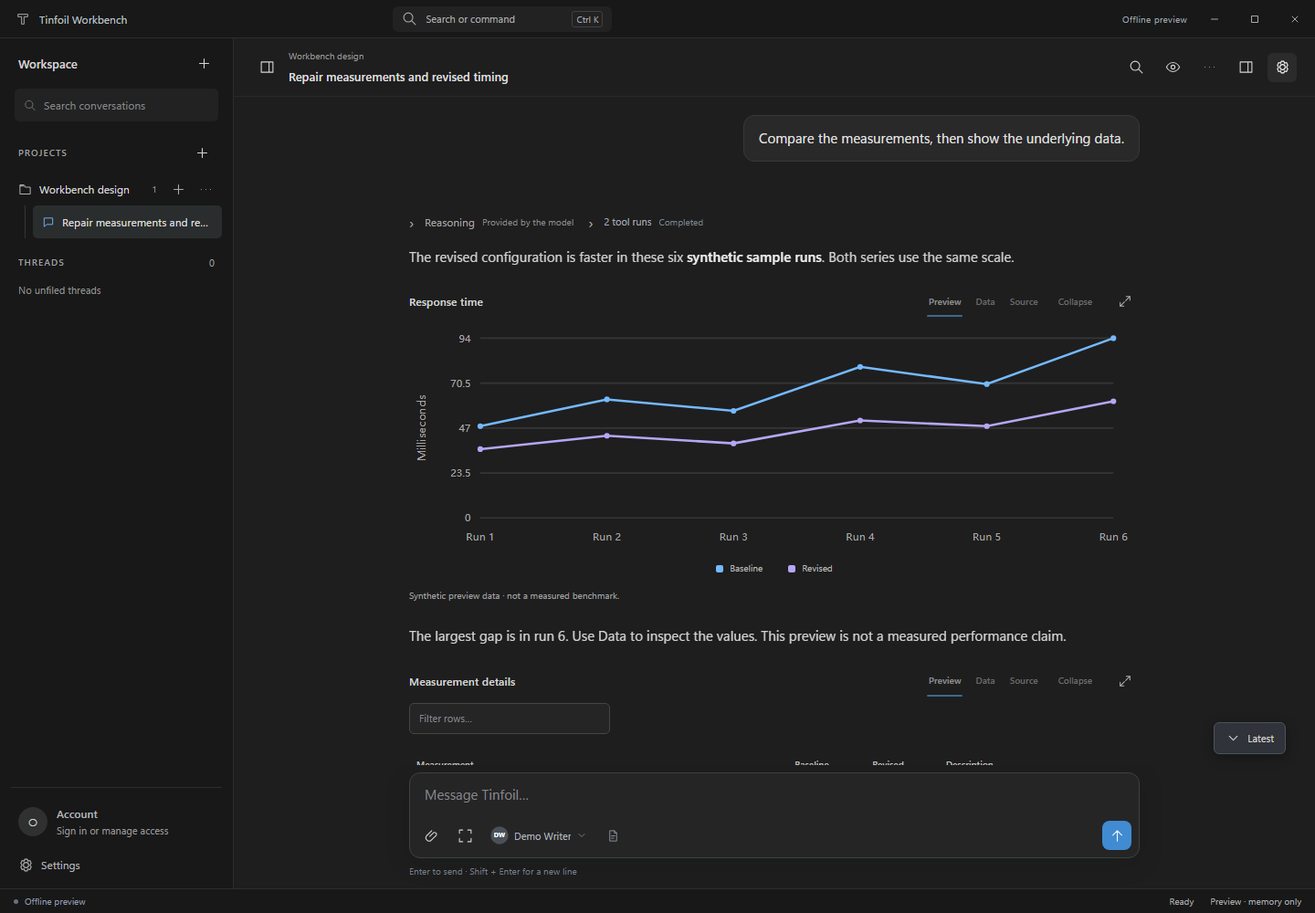
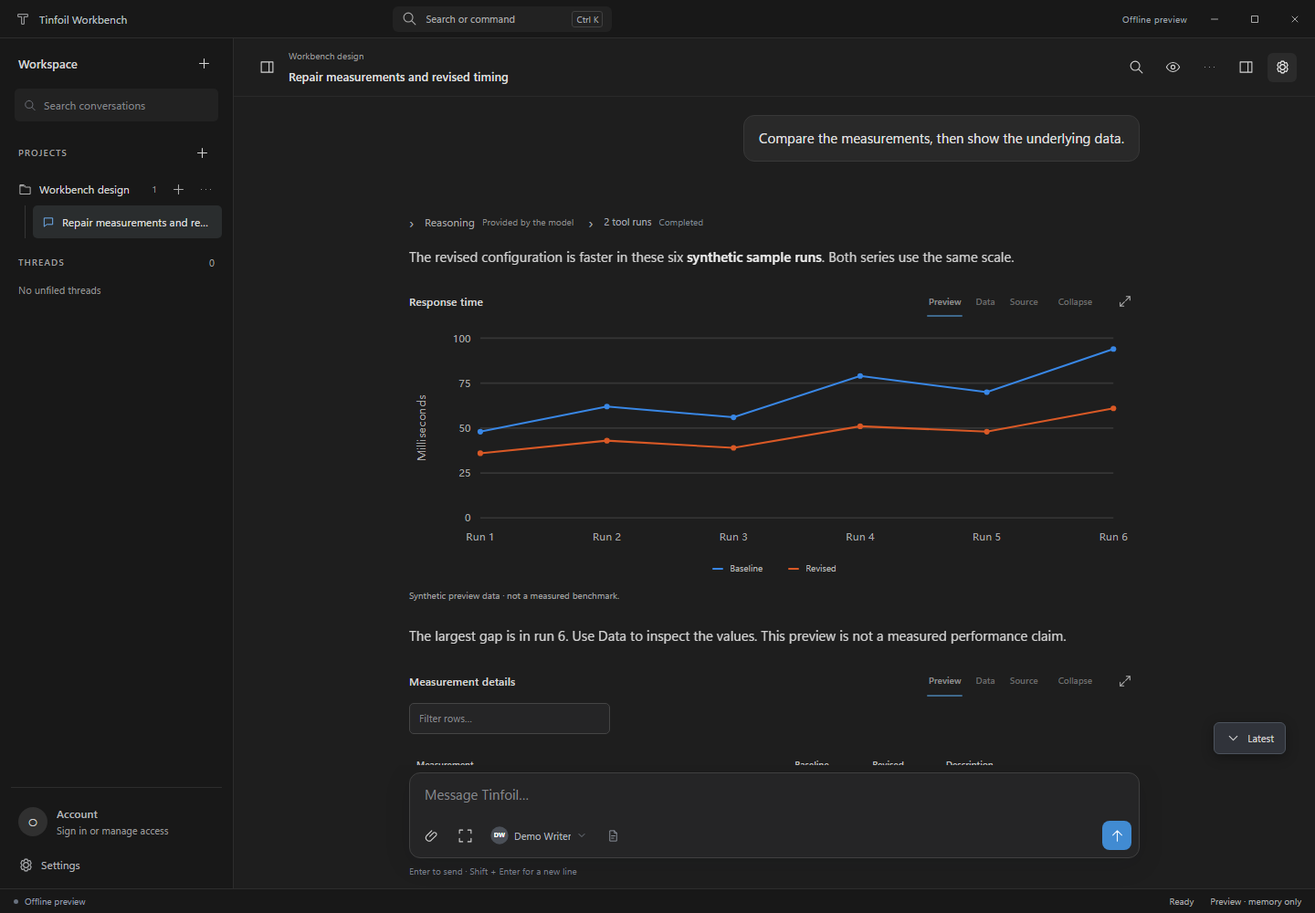
Record the 0.16.0 validation and release artifacts
- docs/VALIDATION.md is now the 0.16.0 record: the guide to the tools
  (what it contains, its size and why it stays fixed, its checks, and
  that real model behaviour was not measured), the chart forms, readout
  and palette with the validator results, the Windows gates including a
  live verification of both enclaves through the packaged app and
  through the installed app after a silent upgrade over 0.15.1, the
  twelve browser suites, the device results, the in-place upgrade from
  the signed 0.15.1 APK, what did not run, and the artifact hashes. The
  0.15.1 record and checklist move to docs/history/v0.15.1.
- HANDOFF states what ran for 0.16.0 and asks for a check of real model
  behaviour with the guide; README's verification summary names 0.16.0.
- Screenshots and check records are regenerated from the build commit,
  including the chart suite's first screenshots and record.

The packaged files are unchanged from e15ae14.

diff --git a/docs/VALIDATION.md b/docs/VALIDATION.md
@@ -1,67 +1,85 @@
-# Tinfoil Workbench 0.15.1 — validation record
+# Tinfoil Workbench 0.16.0 — validation record
 
-Recorded 29 September 2026 for the 0.15.1 release. It keeps a saved Tinfoil Chat sign-in on Windows when Tinfoil cannot be reached as Workbench starts. The record lists what ran, what failed on the way, and what did not run. The previous record is in [history/v0.15.0](history/v0.15.0/VALIDATION.md).
+Recorded 29 September 2026 for the 0.16.0 release. It tells the model when to use its visual tools and Python, through a guide at the start of the system message, and adds pie, stacked and unit-aware charts with a hover and keyboard readout. The record lists what ran, what failed on the way, and what did not run. The previous record is in [history/v0.15.1](history/v0.15.1/VALIDATION.md).
 
 ## Environment
 
 - **Windows build machine:** Windows 11 Pro 10.0.26200 (x64).
-- **Toolchains, emulators and dependencies:** unchanged from 0.15.0. The lockfile differs only in its version field. A clean `npm run bootstrap` followed by `npm run doctor` passed all 28 entries. `npm audit --omit=dev` reports no known vulnerabilities; the full audit reports the same three moderate advisories in the dev-only `@capacitor/cli` → `xcode` → `uuid` chain as 0.15.0.
+- **Toolchains, emulators and dependencies:** unchanged from 0.15.1. The lockfile differs only in its version field. A clean `npm run bootstrap` followed by `npm run doctor` passed all 28 entries. `npm audit --omit=dev` reports no known vulnerabilities; the full audit reports the same three moderate advisories in the dev-only `@capacitor/cli` → `xcode` → `uuid` chain.
 
-## The defect
+## The guide to the tools
 
-After an unexpected shutdown, Workbench 0.15.0 was started while the network was still coming up. Restoring the saved sign-in needs Tinfoil's page within 30 seconds; when it is not reached, `restore()` keeps the saved sign-in as pending and shows the account as expired, as designed. Two gaps then led to a new sign-in:
+Before this release the visual tools and Python reached the model only as tool schemas. The system message carried the user's instructions and project context, and nothing about when a tool helps. `src/core/prompt.ts` now puts a fixed `<workbench_tools>` section at the start of the system message, with a `<visuals>` part and a `<python>` part for the tools actually offered on that request. It follows the XML-section layout of Tinfoil Chat's own prompt, whose client and public configuration (`/api/config/system-prompt`, with its GenUI guidance) were read for reference, not copied. The user's instructions follow the guide and take precedence; cloud project context follows them, now escaped as Tinfoil Chat escapes it.
 
-- Nothing retried the saved sign-in except the next Chat request, so the Account view kept offering *Reconnect Tinfoil Chat* after the network was back.
-- *Reconnect* runs the sign-in command, which signs out an expired account first. Signing out deletes `account-session.bin` and ends the Clerk session, so a session that was still valid was replaced by a new sign-in.
+- **Size:** 1,313 characters (about 330 tokens) with the visual tools, 1,616 characters (about 400 tokens) with Python as well, 390 with Python alone. It depends only on the offered tool set and contains no date, time or user data, so the start of every request stays byte-identical and the provider's prefix cache covers it.
+- **Checks:** `tests/prompt.test.mjs` (4 tests): the guide names only offered tools and names every visual tool a model chooses between; it is fixed and under 2,200 characters; it is prepended to an existing system message without mutating it; project names, instructions and documents are escaped, so `</project_context>` inside a document stays text. A service test (`tests/visual-service.test.mjs`) checks the guide on both rounds of a tool loop, a single system message, and no guide when visual tools are off or the model cannot call tools. Three service tests now index request messages one place later.
+- **Not measured:** whether and how often real models choose a visual now. The checks use scripted provider responses.
 
-Which restore outcome occurred on that launch was not recorded: Workbench keeps no log of it. The network was still changing within the 30 seconds after the launch, and the other outcome, a session that Tinfoil ended, deletes the saved sign-in with a different message. Both writes of the saved files are atomic (a flushed temporary file, then a rename), and the key that protects them was unchanged.
+## Charts
 
-The chat key for cloud sync is kept in the workspace and is unaffected by any of this: only *Remove chat key* removes it. Signing in again, or a deleted saved sign-in, does not.
+Chart forms and reading aids follow current chat visualization tools (OpenAI's interactive bar, line, pie and scatter charts; Anthropic's inline visuals, which a model creates unasked when they help) and a data-visualization method for marks, color and interaction:
 
-## Checks
-
-- `tests/account-remember.test.mjs` gains three tests, 16 in all. With an adapter that cannot reach Tinfoil until told to: the saved sign-in is retried on the timer until it is restored, and not after; signing out, turning the option off and quitting stop the retries; a retry that finds the session ended deletes the saved sign-in and stops. *Reconnect* while still offline keeps the saved sign-in and says so, restores it once Tinfoil is reachable without ending or deleting anything, and leads to a new sign-in only when the saved session has ended or there is none. Waking from sleep starts the backoff over. Removing the scheduled retry fails two of the tests.
-- The browser suites' renderer preview is byte-identical to 0.15.0's; the Account view is unchanged apart from the message text that the host sends.
+- **Pie** charts (a donut with 2px gaps, direct labels for parts of 4% or more, the total unless the values are percentages), limited to one series of two to six non-negative parts; **stacked** bar and area charts; **units** as a value prefix and suffix; **round ticks**.
+- **Hover and keyboard:** a crosshair and one readout of every visible series on line and area charts, the category band on bar charts with the stack total, the nearest point on scatter charts, the slice on pie charts; arrow keys, Home and End on the focused chart, announced in a polite live region. Labels are inserted as text. The Data tab keeps every value.
+- **Palette:** the series colors failed the palette validator on the app's dark surface: lightness band, chroma floor, CVD separation (series 1 and 2 were ΔE 2.0 apart under deuteranopia) and normal-vision floor. They are replaced by the reference palette's dark steps, which pass all five checks on `#1e1e1e` and `#252526` (worst adjacent CVD ΔE 8.4, normal-vision ΔE 19.3, all at least 3:1); the first three also pass all-pairs, as scatter charts need.
+- **Checks:** `tests/charts.test.mjs` (9 tests) covers validation, stacking and restacking, units, round ticks, pie geometry, labels and print colors, native tooltips only in exports, and the schema the model reads. Three existing tests follow the palette and the bar paths. The new browser suite `tests/ui-charts.py` (9 checks) drives the hover and keyboard readouts, series toggling, stacked totals, the pie legend, readout and Data tab, and the escaping of model labels, in the production renderer.
+- Charts made by earlier versions parse unchanged; the new fields are optional and omitted when unset.
 
 ## Windows
 
 | Check | Result |
 |---|---|
-| `npm test` (strict build + Node tests) | **418 passed**, 0 failed, 0 skipped: the 415 tests of 0.15.0 and the three new ones |
+| `npm test` (strict build + Node tests) | **432 passed**, 0 failed, 0 skipped: the 418 tests of 0.15.1 and 14 new ones |
 | `npm run dist:win` | Passed its doctor (28/28), test and native smoke gates, built the x64 NSIS installer and portable executable (unsigned), then `PACKAGE_CHECK_OK` (31 packaged modules) |
-| Packaged app `release\win-unpacked\Tinfoil Workbench.exe --smoke-test` | `DESKTOP_SMOKE_OK`, including the attested SDK import; file version 0.15.1 |
+| Packaged app `release\win-unpacked\Tinfoil Workbench.exe --smoke-test` | `DESKTOP_SMOKE_OK`, including the attested SDK import; file version 0.16.0 |
 | Packaged app, live enclaves (`check-packaged-provider.mjs`) | `PACKAGED_PROVIDER_OK`: the inference enclave's five verification steps and 17 models, then the sync enclave's five verification steps |
-| Silent upgrade over an installed 0.15.0 | **Not run before publishing:** the installed 0.15.0 was in use. The installer configuration is unchanged since 0.12.1, and the same upgrade from 0.14.0 to 0.15.0 passed earlier the same day |
+| Silent upgrade over an installed 0.15.1 (`Setup.exe /S /currentuser`) | Exit 0. The installed executable and its uninstall entry report 0.16.0. The installed app's `--smoke-test` printed `DESKTOP_SMOKE_OK`, and `check-packaged-provider.mjs` run by the installed executable against its own `app.asar` printed `PACKAGED_PROVIDER_OK` with both enclaves. The existing app data (56 files, including a saved sign-in) was unchanged by SHA-256, and the Start menu and desktop shortcuts still point to the installed app. 0.15.1 had been installed over 0.15.0 earlier the same day in the same way, with the same results |
 
-The eleven production-renderer browser suites passed **451 checks**, the same counts as 0.15.0, with no JavaScript errors and no requests leaving the page.
+The twelve production-renderer browser suites passed **460 checks** with no JavaScript errors and no requests leaving the page:
+
+| Suite | 0.15.1 | 0.16.0 |
+| --- | ---: | ---: |
+| ui-smoke.py | 36 | 36 |
+| ui-artifacts.py | 21 | 21 |
+| ui-inline.py | 20 | 20 |
+| ui-seamless.py | 17 | 17 |
+| ui-editing.py | 21 | 21 |
+| ui-responsive.py | 93 | 93 |
+| ui-spacing.py | 112 | 112 |
+| ui-activity.py | 32 | 32 |
+| ui-account.py | 68 | 68 |
+| ui-handoff.py | 25 | 25 |
+| ui-cloud.py | 6 | 6 |
+| ui-charts.py | — | 9 |
 
 ## Android
 
-The Android app has no saved sign-in, so no restore is ever pending there and no retry is scheduled. `tests/android-device.py` ran against the final APKs:
+The Android app shares the renderer and the service, so it gets the guide and the charts too. `tests/android-device.py` ran against the final APKs; its instructions-picker check follows the reworded None option.
 
 | Device image | Android System WebView | `--debug --live` | `--release` |
 |---|---|---|---|
 | Android 16 (API 36), Pixel 7 profile | 133.0.6943.137 | **40/40** | **13/13** |
 | Android 14 (API 34), Pixel 6 profile | 113.0.5672.136 | **36/36** | **13/13** |
 
-- **Upgrade in place (Android 16).** The published, signed 0.15.0 APK (its SHA-256 matches the 0.15.0 release) was installed, a starter chosen and a draft typed through the on-screen keyboard. `adb install -r` then installed the signed 0.15.1 APK, which reported versionName 0.15.1. The draft and the starter choice written by 0.15.0 opened, and both persisted across a force-stop.
+- **Upgrade in place (Android 16).** The published, signed 0.15.1 APK (its SHA-256 matches the 0.15.1 release) was installed, a starter chosen and a draft typed through the on-screen keyboard. `adb install -r` then installed the signed 0.16.0 APK, which reported versionName 0.16.0. The draft and the starter choice written by 0.15.1 opened, and both persisted across a force-stop. The counts equal those of 0.15.1.
 - **Phone.** Not used for this release.
 
 ## Not executed
 
-- **The retry with a real account after a real outage or a slow network.** The checks simulate an unreachable Tinfoil. Still open from 0.15.0: staying signed in and cloud sync in the installed app with a real account.
-- Everything else listed as not executed for [0.15.0](history/v0.15.0/VALIDATION.md#not-executed) remains open.
+- **Model behavior with the guide:** no request with a real model ran for this release, so whether models now create visuals unasked, and choose between the tools as the guide says, is not measured.
+- **The hover layer on touch screens and with a screen reader:** the checks use a mouse pointer and the keyboard in Chromium.
+- Everything listed as not executed for [0.15.1](history/v0.15.1/VALIDATION.md#not-executed) remains open.
 
 ## Release artifacts
 
-The release files were built from commit `5954fb8`. The tag commit adds only this record, the archived 0.15.0 record and refreshed screenshots and check records, none of which is packaged.
+The release files were built from commit `45ef4bb`. The tag commit adds only this record, the archived 0.15.1 record, the updated handoff checklist and README text, and refreshed screenshots and check records, none of which is packaged.
 
 | File | Bytes | SHA-256 |
 |---|---:|---|
[6 lines of base64/hex data omitted]
 
[2 lines of base64/hex data omitted]
 
-GitHub Actions passed all three workflows on commit `5954fb8`, in the pull request runs 36511348437 (Windows client), 36511348568 (Android client) and 36511348429 (renderer UI suites).
+GitHub Actions passed all three workflows on commit `45ef4bb`, in the pull request runs 36562959207 (Windows client), 36562959160 (Android client) and 36562959181 (renderer UI suites, now twelve).

diff --git a/docs/history/v0.15.1/VALIDATION.md b/docs/history/v0.15.1/VALIDATION.md
@@ -1,0 +1,67 @@
+# Tinfoil Workbench 0.15.1 — validation record
+
+Recorded 29 September 2026 for the 0.15.1 release. It keeps a saved Tinfoil Chat sign-in on Windows when Tinfoil cannot be reached as Workbench starts. The record lists what ran, what failed on the way, and what did not run. The previous record is in [history/v0.15.0](../v0.15.0/VALIDATION.md).
+
+## Environment
+
+- **Windows build machine:** Windows 11 Pro 10.0.26200 (x64).
+- **Toolchains, emulators and dependencies:** unchanged from 0.15.0. The lockfile differs only in its version field. A clean `npm run bootstrap` followed by `npm run doctor` passed all 28 entries. `npm audit --omit=dev` reports no known vulnerabilities; the full audit reports the same three moderate advisories in the dev-only `@capacitor/cli` → `xcode` → `uuid` chain as 0.15.0.
+
+## The defect
+
+After an unexpected shutdown, Workbench 0.15.0 was started while the network was still coming up. Restoring the saved sign-in needs Tinfoil's page within 30 seconds; when it is not reached, `restore()` keeps the saved sign-in as pending and shows the account as expired, as designed. Two gaps then led to a new sign-in:
+
+- Nothing retried the saved sign-in except the next Chat request, so the Account view kept offering *Reconnect Tinfoil Chat* after the network was back.
+- *Reconnect* runs the sign-in command, which signs out an expired account first. Signing out deletes `account-session.bin` and ends the Clerk session, so a session that was still valid was replaced by a new sign-in.
+
+Which restore outcome occurred on that launch was not recorded: Workbench keeps no log of it. The network was still changing within the 30 seconds after the launch, and the other outcome, a session that Tinfoil ended, deletes the saved sign-in with a different message. Both writes of the saved files are atomic (a flushed temporary file, then a rename), and the key that protects them was unchanged.
+
+The chat key for cloud sync is kept in the workspace and is unaffected by any of this: only *Remove chat key* removes it. Signing in again, or a deleted saved sign-in, does not.
+
+## Checks
+
+- `tests/account-remember.test.mjs` gains three tests, 16 in all. With an adapter that cannot reach Tinfoil until told to: the saved sign-in is retried on the timer until it is restored, and not after; signing out, turning the option off and quitting stop the retries; a retry that finds the session ended deletes the saved sign-in and stops. *Reconnect* while still offline keeps the saved sign-in and says so, restores it once Tinfoil is reachable without ending or deleting anything, and leads to a new sign-in only when the saved session has ended or there is none. Waking from sleep starts the backoff over. Removing the scheduled retry fails two of the tests.
+- The browser suites' renderer preview is byte-identical to 0.15.0's; the Account view is unchanged apart from the message text that the host sends.
+
+## Windows
+
+| Check | Result |
+|---|---|
+| `npm test` (strict build + Node tests) | **418 passed**, 0 failed, 0 skipped: the 415 tests of 0.15.0 and the three new ones |
+| `npm run dist:win` | Passed its doctor (28/28), test and native smoke gates, built the x64 NSIS installer and portable executable (unsigned), then `PACKAGE_CHECK_OK` (31 packaged modules) |
+| Packaged app `release\win-unpacked\Tinfoil Workbench.exe --smoke-test` | `DESKTOP_SMOKE_OK`, including the attested SDK import; file version 0.15.1 |
+| Packaged app, live enclaves (`check-packaged-provider.mjs`) | `PACKAGED_PROVIDER_OK`: the inference enclave's five verification steps and 17 models, then the sync enclave's five verification steps |
+| Silent upgrade over an installed 0.15.0 | **Not run before publishing:** the installed 0.15.0 was in use. The installer configuration is unchanged since 0.12.1, and the same upgrade from 0.14.0 to 0.15.0 passed earlier the same day |
+
+The eleven production-renderer browser suites passed **451 checks**, the same counts as 0.15.0, with no JavaScript errors and no requests leaving the page.
+
+## Android
+
+The Android app has no saved sign-in, so no restore is ever pending there and no retry is scheduled. `tests/android-device.py` ran against the final APKs:
+
+| Device image | Android System WebView | `--debug --live` | `--release` |
+|---|---|---|---|
+| Android 16 (API 36), Pixel 7 profile | 133.0.6943.137 | **40/40** | **13/13** |
+| Android 14 (API 34), Pixel 6 profile | 113.0.5672.136 | **36/36** | **13/13** |
+
+- **Upgrade in place (Android 16).** The published, signed 0.15.0 APK (its SHA-256 matches the 0.15.0 release) was installed, a starter chosen and a draft typed through the on-screen keyboard. `adb install -r` then installed the signed 0.15.1 APK, which reported versionName 0.15.1. The draft and the starter choice written by 0.15.0 opened, and both persisted across a force-stop.
+- **Phone.** Not used for this release.
+
+## Not executed
+
+- **The retry with a real account after a real outage or a slow network.** The checks simulate an unreachable Tinfoil. Still open from 0.15.0: staying signed in and cloud sync in the installed app with a real account.
+- Everything else listed as not executed for [0.15.0](../v0.15.0/VALIDATION.md#not-executed) remains open.
+
+## Release artifacts
+
+The release files were built from commit `5954fb8`. The tag commit adds only this record, the archived 0.15.0 record and refreshed screenshots and check records, none of which is packaged.
+
+| File | Bytes | SHA-256 |
+|---|---:|---|
[3 lines of base64/hex data omitted]
+
[1 lines of base64/hex data omitted]
+
+GitHub Actions passed all three workflows on commit `5954fb8`, in the pull request runs 36511348437 (Windows client), 36511348568 (Android client) and 36511348429 (renderer UI suites).

diff --git a/docs/history/v0.15.1/HANDOFF.md b/docs/history/v0.15.1/HANDOFF.md
@@ -1,8 +1,8 @@
-# Manual acceptance checklist — 0.16.0
+# Manual acceptance checklist — 0.15.1
 
 This checklist covers what automated checks cannot establish.
 
-For 0.16.0, the build steps in section 1 were already run on the build machine: bootstrap, doctor, tests, native smoke, packaging, the package check, the packaged smoke, a live verification of the inference and cloud sync enclaves through the packaged app, and a silent upgrade over an installed 0.15.1 with the installed app's smoke and live verification. Whether real models now create visuals when they help, following the tool guide, has not been checked: ask for an explanation that a chart or diagram would serve without asking for one, and a short factual question that needs none. So were the Android emulator checks in section 6 marked *automated*. Tinfoil cloud chats (section 2) were checked with a real account from source, which also restored a real saved sign-in after a restart; neither has been checked in the installed app. Chat sign-in, including a key renewal after expiry, was checked with a real account for earlier releases, on Windows (from source) and on one Android phone (debug build); the sign-in code has not changed since. See [VALIDATION.md](VALIDATION.md). Repeat section 1 on a clean, standard-user Windows machine. Sections 2–5 and the manual part of section 6 remain open until someone performs them with a real account on real hardware.
+For 0.15.1, the build steps in section 1 were already run on the build machine: bootstrap, doctor, tests, native smoke, packaging, the package check, the packaged smoke and a live verification of the inference and cloud sync enclaves through the packaged app; see VALIDATION.md for the upgrade over an installed 0.15.0. So were the Android emulator checks in section 6 marked *automated*. Tinfoil cloud chats (section 2) were checked with a real account from source, which also restored a real saved sign-in after a restart; neither has been checked in the installed app. Chat sign-in, including a key renewal after expiry, was checked with a real account for earlier releases, on Windows (from source) and on one Android phone (debug build); the sign-in code has not changed since. See [VALIDATION.md](VALIDATION.md). Repeat section 1 on a clean, standard-user Windows machine. Sections 2–5 and the manual part of section 6 remain open until someone performs them with a real account on real hardware.
 
 ## 1. Establish the build
 
@@ -66,7 +66,7 @@ After the checks above:
 npm run dist:win
 ```
 
-The command gates packaging behind doctor, tests and native smoke and never publishes. Expected outputs are `release/Tinfoil-Workbench-0.16.0-x64-Setup.exe` and `release/Tinfoil-Workbench-0.16.0-x64-Portable.exe`. Validate the generated filenames and test both on a clean standard-user Windows installation. Code signing is not configured; do not describe artifacts as signed or instructions to disable OS protection. ARM64 requires its own real machine/runner validation.
+The command gates packaging behind doctor, tests and native smoke and never publishes. Expected outputs are `release/Tinfoil-Workbench-0.15.1-x64-Setup.exe` and `release/Tinfoil-Workbench-0.15.1-x64-Portable.exe`. Validate the generated filenames and test both on a clean standard-user Windows installation. Code signing is not configured; do not describe artifacts as signed or instructions to disable OS protection. ARM64 requires its own real machine/runner validation.
 
 Optional PowerShell orchestration: `./scripts/Local-Build.ps1 -Bootstrap -Package`. This script’s native execution remains untested here; the npm commands above are the reference sequence.
 

diff --git a/README.md b/README.md
@@ -99,10 +99,10 @@ Keyboard shortcuts on Windows: Ctrl+N new thread; Ctrl+K commands; Ctrl+F conver
 
 [docs/VALIDATION.md](docs/VALIDATION.md) records what ran for this release:
 
-- **Windows:** Node tests, the eleven browser suites, native smoke tests of the source tree and the packaged app, a check that every module the package needs is in it, and a live verification of the inference and cloud sync enclaves through the packaged app. Retrying a saved sign-in that cannot reach Tinfoil is checked with a simulated outage. For 0.15.0, Tinfoil cloud chats were checked with a real account from source: the first sync, a read-only check that writing ten real chats back would keep them exactly, and a test chat uploaded, renamed, continued and deleted. That check also restored a real saved sign-in after a restart.
-- **Android:** unit tests, and device checks on Android 16 and Android 14 emulators, including a live enclave verification, the model catalog and picker, the sign-in screen and an in-place upgrade from 0.15.0. Chat sign-in was checked with a real account on one phone for 0.13.0, including a key renewal after expiry.
+- **Windows:** Node tests, the twelve browser suites, native smoke tests of the source tree and the packaged app, a check that every module the package needs is in it, a live verification of the inference and cloud sync enclaves through the packaged and the installed app, and a silent upgrade over 0.15.1. The tool guide and the charts are checked with scripted model responses. For 0.15.0, Tinfoil cloud chats were checked with a real account from source: the first sync, a read-only check that writing ten real chats back would keep them exactly, and a test chat uploaded, renamed, continued and deleted. That check also restored a real saved sign-in after a restart.
+- **Android:** unit tests, and device checks on Android 16 and Android 14 emulators, including a live enclave verification, the model catalog and picker, the sign-in screen and an in-place upgrade from 0.15.1. Chat sign-in was checked with a real account on one phone for 0.13.0, including a key renewal after expiry.
 
-It also lists what did not run. That includes chat with a real API key, cloud sync and staying signed in with the installed app, cloud sync conflicts with a real concurrent edit, the release-signed Android app with a real account, other physical devices and a clean Windows machine. [docs/HANDOFF.md](docs/HANDOFF.md) is the manual acceptance checklist for those remaining checks.
+It also lists what did not run. That includes how often real models choose a visual, chat with a real API key, cloud sync and staying signed in with the installed app, cloud sync conflicts with a real concurrent edit, the release-signed Android app with a real account, other physical devices and a clean Windows machine. [docs/HANDOFF.md](docs/HANDOFF.md) is the manual acceptance checklist for those remaining checks.
 
 `preview/index.html` (built by `npm run preview:build`) is a standalone renderer demonstration with labelled synthetic responses; it cannot authenticate. [Rendering measurements](docs/RENDERING.md) describe a synthetic workload.
 
